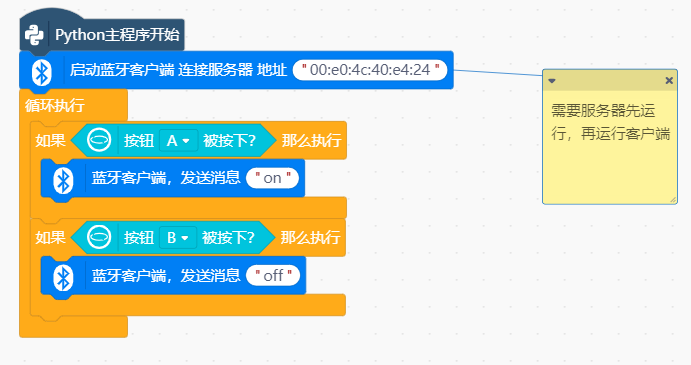
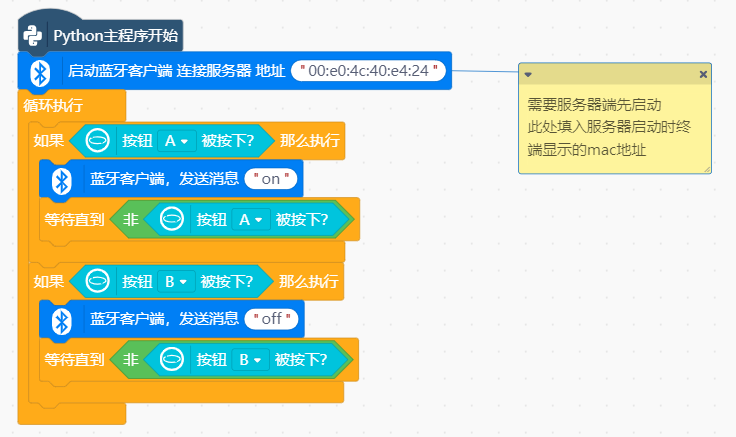
update example

diff --git a/README.md b/README.md
@@ -24,7 +24,7 @@
 
 
 ## Summary
-使用Mind+V1.7.2及以上版本，在python模式用户库中加载此扩展，在行空板上运行，可实现蓝牙Socket通信。
+使用Mind+V1.7.2及以上版本，在python模式用户库中加载此扩展，在两块行空板上分别运行服务器端和客户端程序，可实现两块行空板之间通过蓝牙进行Socket通信。
 
 ## Blocks
 
@@ -33,12 +33,20 @@
 
 
 ## Examples
+- 示例1：行空板1按钮控制行空板2上的L灯
+    - 服务器端  
+    ![](./python/_images/examples0.png)  
 
-- 服务器端  
-![](./python/_images/examples0.png)  
+    - 客户端  
+    ![](./python/_images/examples1.png)  
 
-- 客户端  
-![](./python/_images/examples1.png)  
+- 示例2：行空板1上的光线数据发送到行空板2屏幕上显示
+
+    - 服务器端  
+    ![](./python/_images/examples3.png)  
+
+    - 客户端  
+    ![](./python/_images/examples4.png)  
 
 
 ## License
